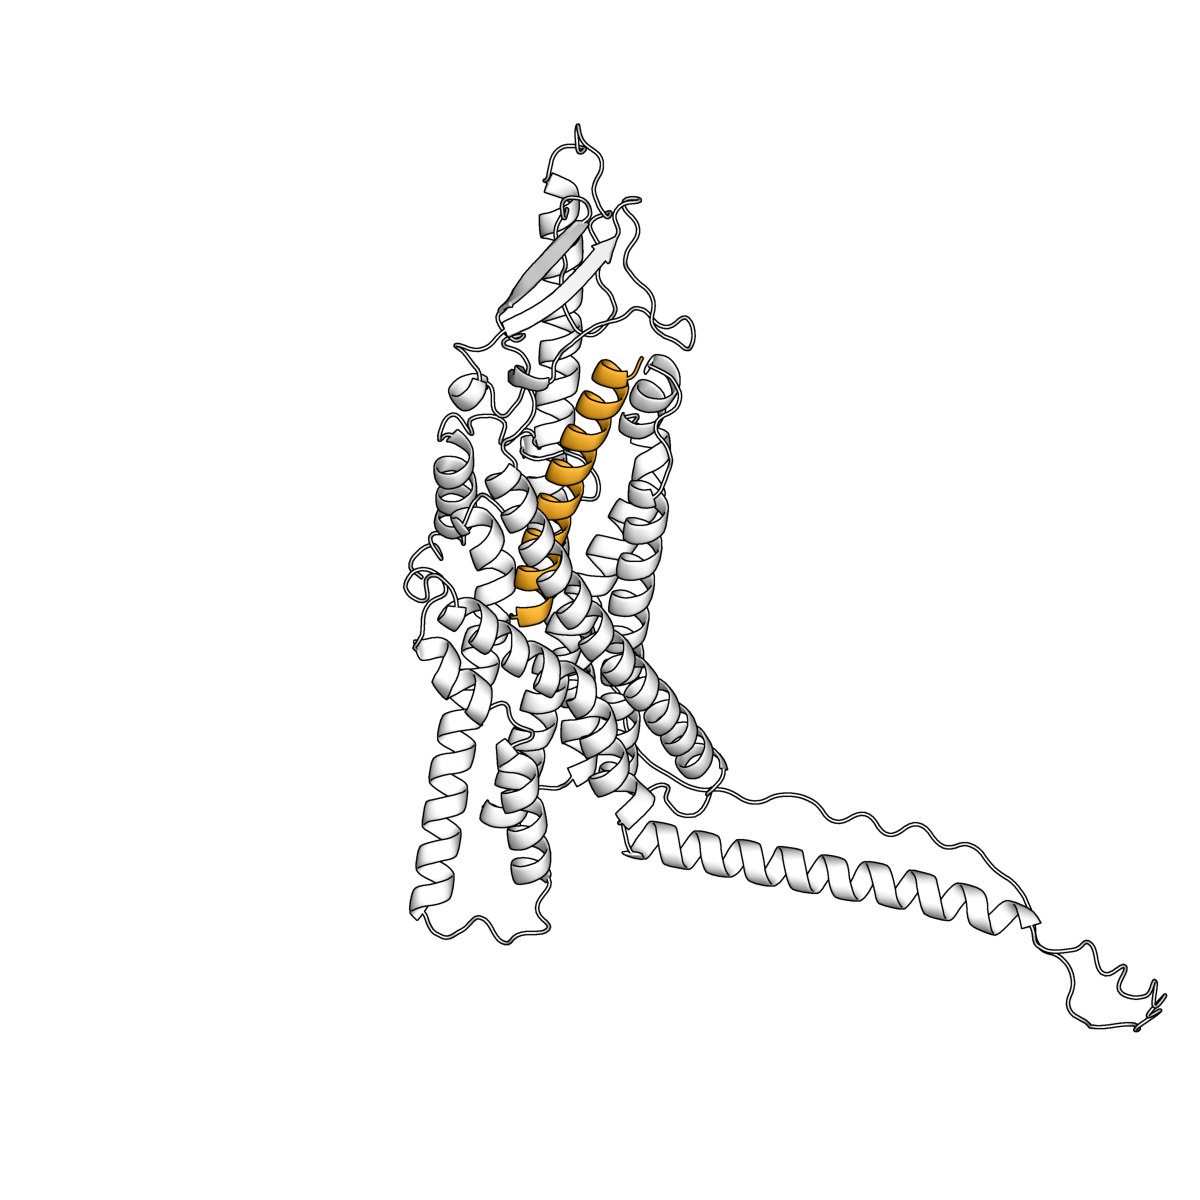
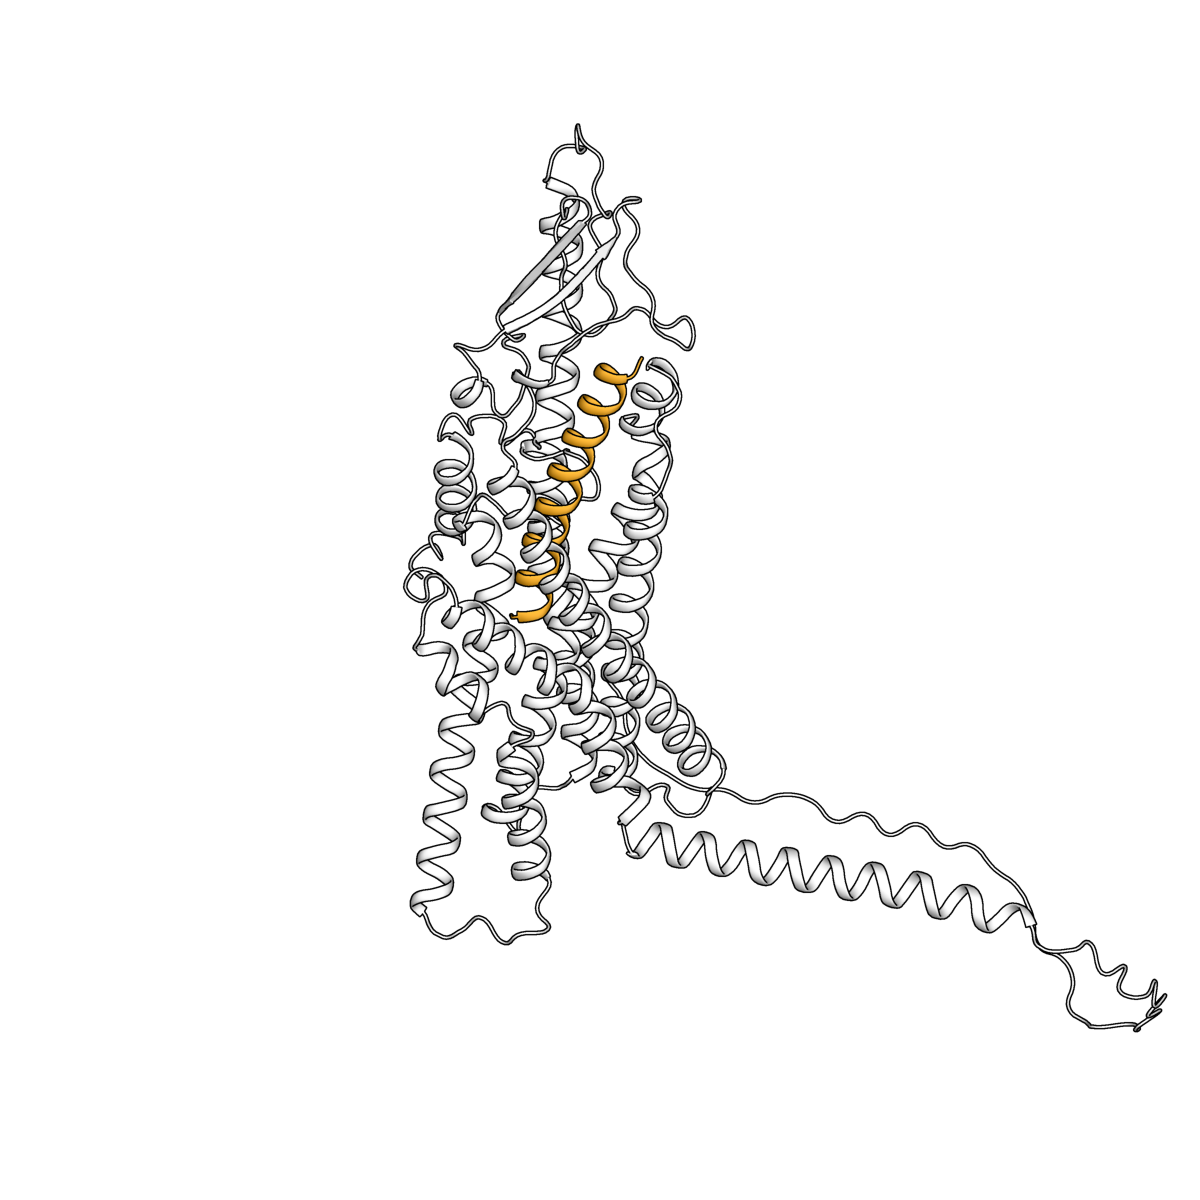
rerun 'showcase' part of figure 2, classifier

Changed region(s): [[0.3392, 0.1542, 0.8633, 0.7708]]

diff --git a/plots/figure2_classifier/describe_decoys/similarities.py b/plots/figure2_classifier/describe_decoys/similarities.py
@@ -69,18 +69,22 @@ def run_main():
 
     # PLOT OLD
     colors = []
+    opacity = []
     for gpcr_key, gpcr_sim in sim_df.items():
         # get color for similar
         if gpcr_key in similar[original_target_col].values:
             color = get_gpcr_color(gpcr, gpcr_key, decoy_df, COLOR)
             colors.append(color)
+            opacity.append(1)
         # get color for dissimilar
         elif gpcr_key in dissimilar[original_target_col].values:
             color = get_gpcr_color(gpcr, gpcr_key, decoy_df, COLOR)
             colors.append(color)
+            opacity.append(1.0)
         # color of others
         else:
             colors.append("lightgrey")
+            opacity.append(0.5)
 
     # plot
     plt.figure(figsize=(4, 4))
@@ -90,13 +94,51 @@ def run_main():
     one_before = sim_df.index.get_loc(cutoff_index_key) - 2
     index_of_cutoff = one_before
 
+    # plt.bar(
+    #     sim_df.index,
+    #     sim_df,
+    #     color=colors,
+    #     # barsize
+    #     width=3,
+    #     # decorate bars more
+    #     edgecolor="black",
+    #     linewidth=0.5,
+    #     # use opacity for color, in list
+    # )
+    width = 2
+    # plot the others with opacity
     plt.bar(
         sim_df.index,
         sim_df,
-        color=colors,
-        # barsize
-        width=3,
+        color="lightgrey",
+        width=width,
+        edgecolor="black",
+        linewidth=0.5,
+        alpha=0.5,
     )
+    # plot similar bars individually
+    for i, (gpcr_key, gpcr_sim) in enumerate(sim_df.items()):
+        if gpcr_key in similar[original_target_col].values:
+            plt.bar(
+                gpcr_key,
+                gpcr_sim,
+                color=colors[i],
+                width=width,
+                edgecolor="black",
+                linewidth=0.5,
+                alpha=1,
+            )
+        elif gpcr_key in dissimilar[original_target_col].values:
+            plt.bar(
+                gpcr_key,
+                gpcr_sim,
+                color=colors[i],
+                width=width,
+                edgecolor="black",
+                linewidth=0.5,
+                alpha=1,
+            )
+
     # plot vertical line
     plt.axvline(x=index_of_cutoff, color="black", linestyle="--", linewidth=1)
 

diff --git a/plots/figure2_classifier/show_10_decoys/show.py b/plots/figure2_classifier/show_10_decoys/show.py
@@ -102,7 +102,7 @@ def create_show_py():
             )
 
     gpcr_type = "cartoon"
-    transparency = 0.0
+    transparency = 0.5
 
     with open(out_p, "w") as f:
         f.write("reinitialize\n")
@@ -126,6 +126,14 @@ def create_show_py():
                 f"align {name} and chain B and resi 50-350, {principal_agonist} and chain B and resi 50-350\n"
             )
 
+        # f.write(f"hide {gpcr_type}, chain B and resi 1-50\n")
+        f.write(f"hide {gpcr_type}, chain B and resi 440-700\n")
+
+        # write ray settings
+        ray_script = script_dir.parent.parent.parent / "ray.pm"
+        f.write(f"@{ray_script.resolve()}\n")
+        set_view(f)
+
         # set background white
         f.write("bg_color white\n")
         f.write("hide cartoon, chain B\n")
@@ -136,13 +144,6 @@ def create_show_py():
         for name, model in zip(short_names, models):
             if name != principal_agonist:
                 f.write(f"hide {gpcr_type}, {name} and chain B\n")
-
-        # f.write(f"hide {gpcr_type}, chain B and resi 1-50\n")
-        f.write(f"hide {gpcr_type}, chain B and resi 440-700\n")
-
-        # write ray settings
-        write_ray_settings(f)
-        set_view(f)
 
         # ray
         f.write("ray 800, 800\n")
